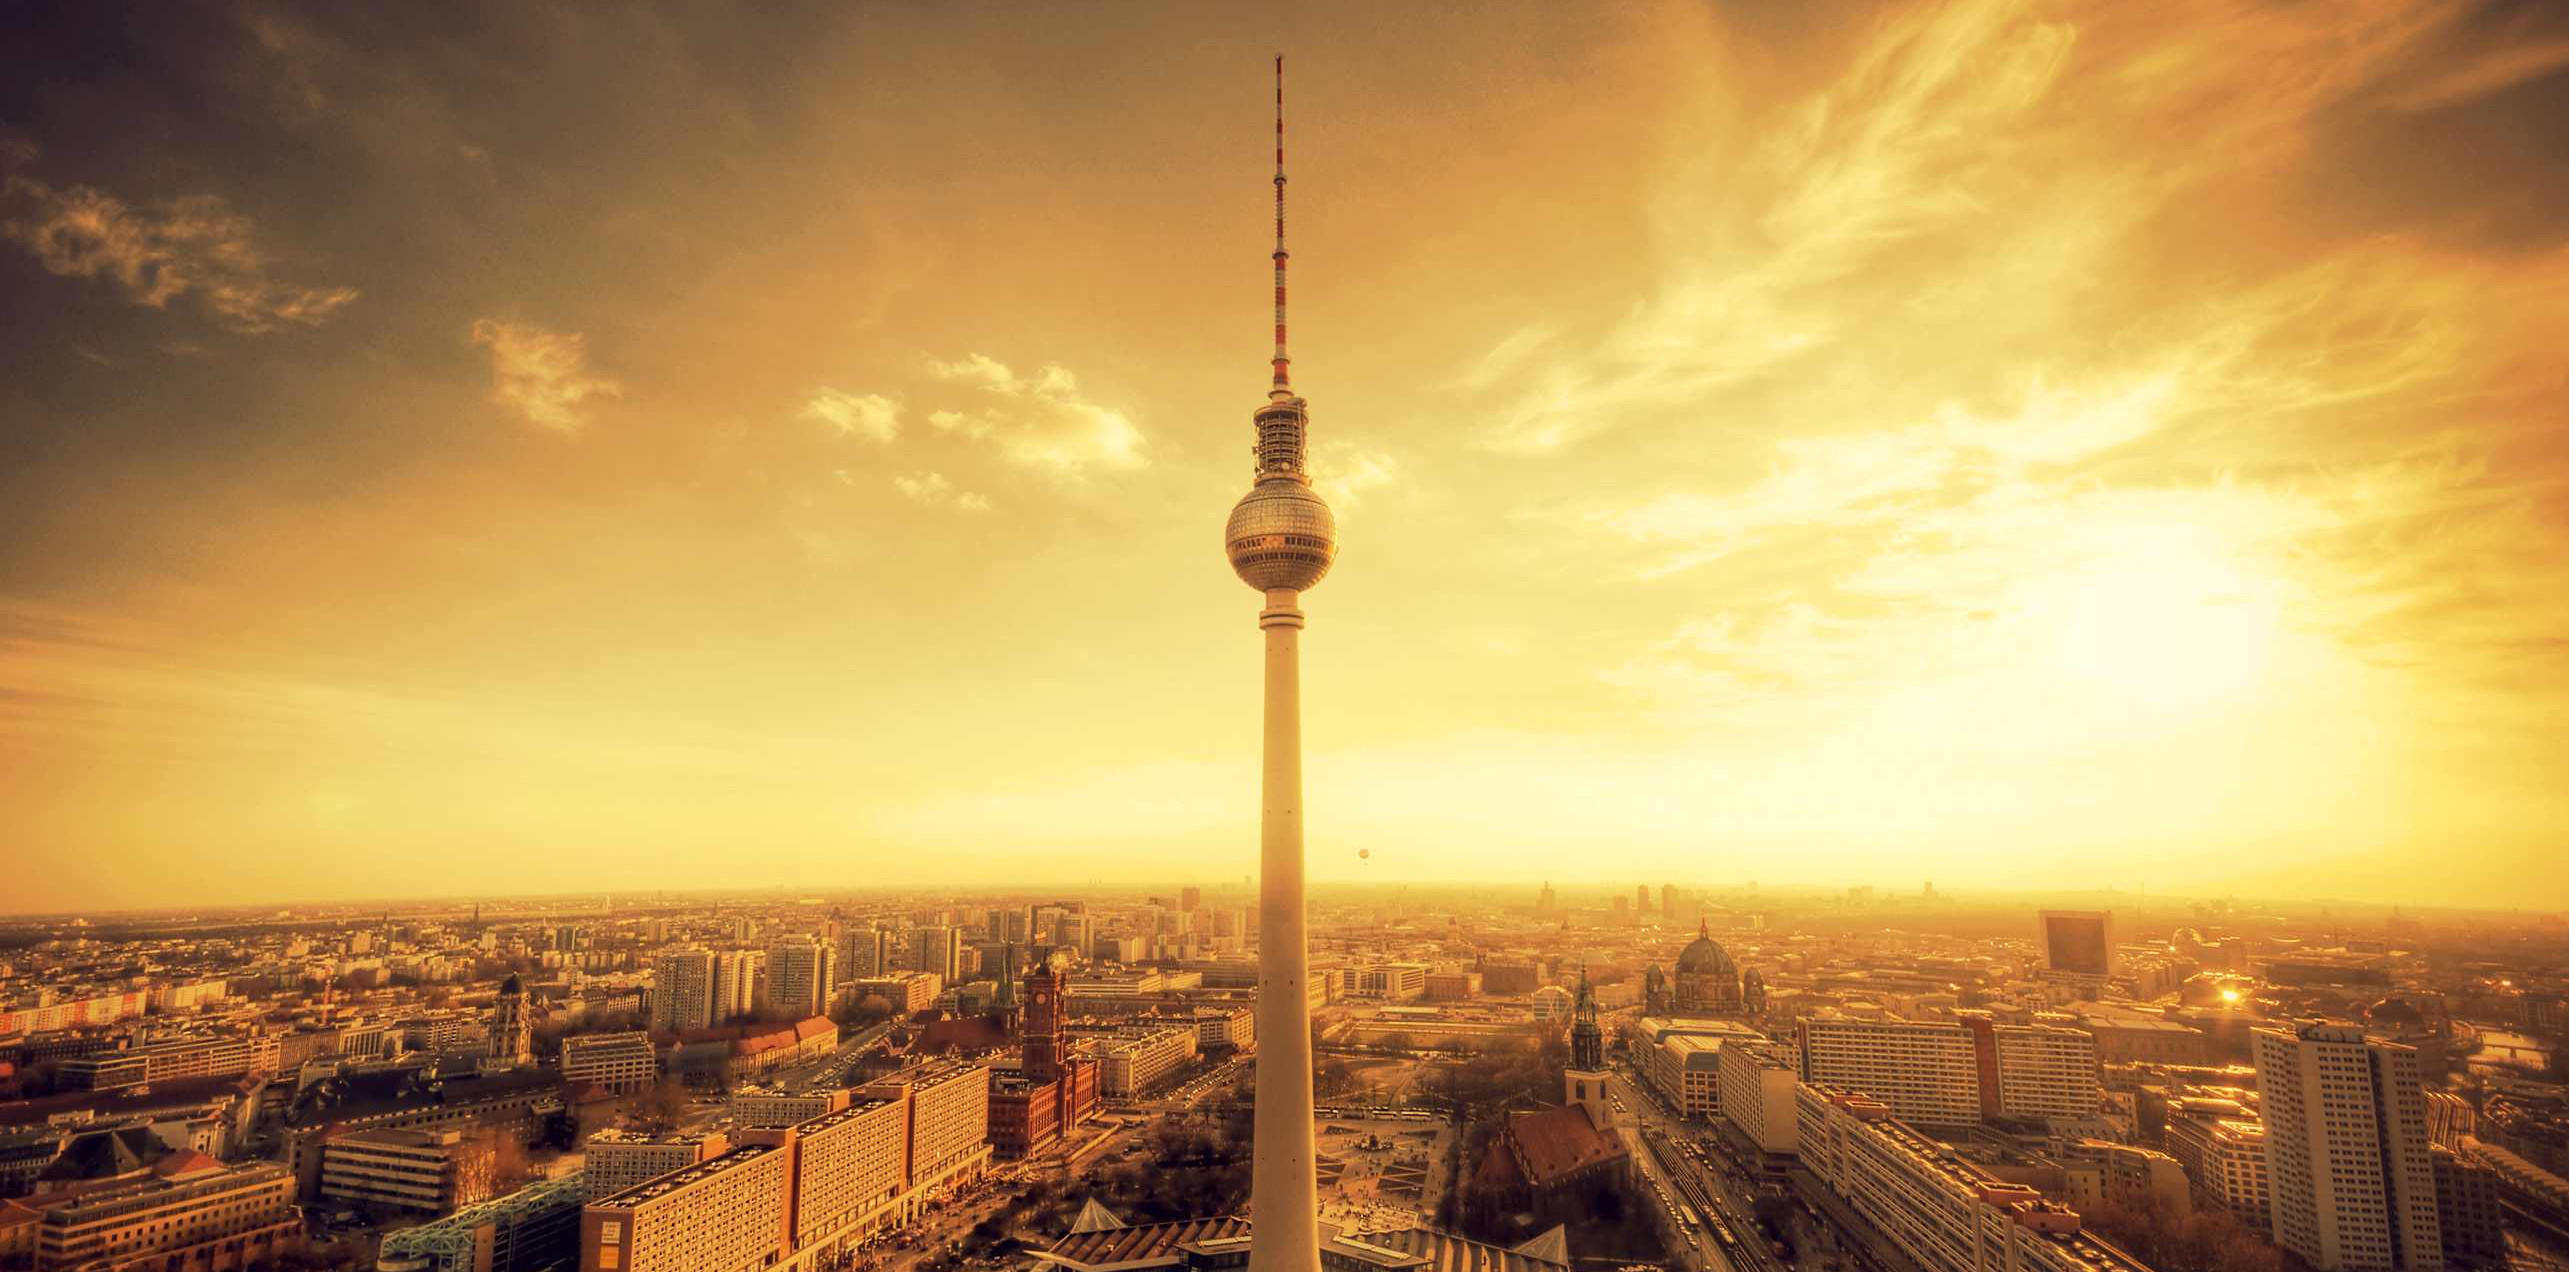
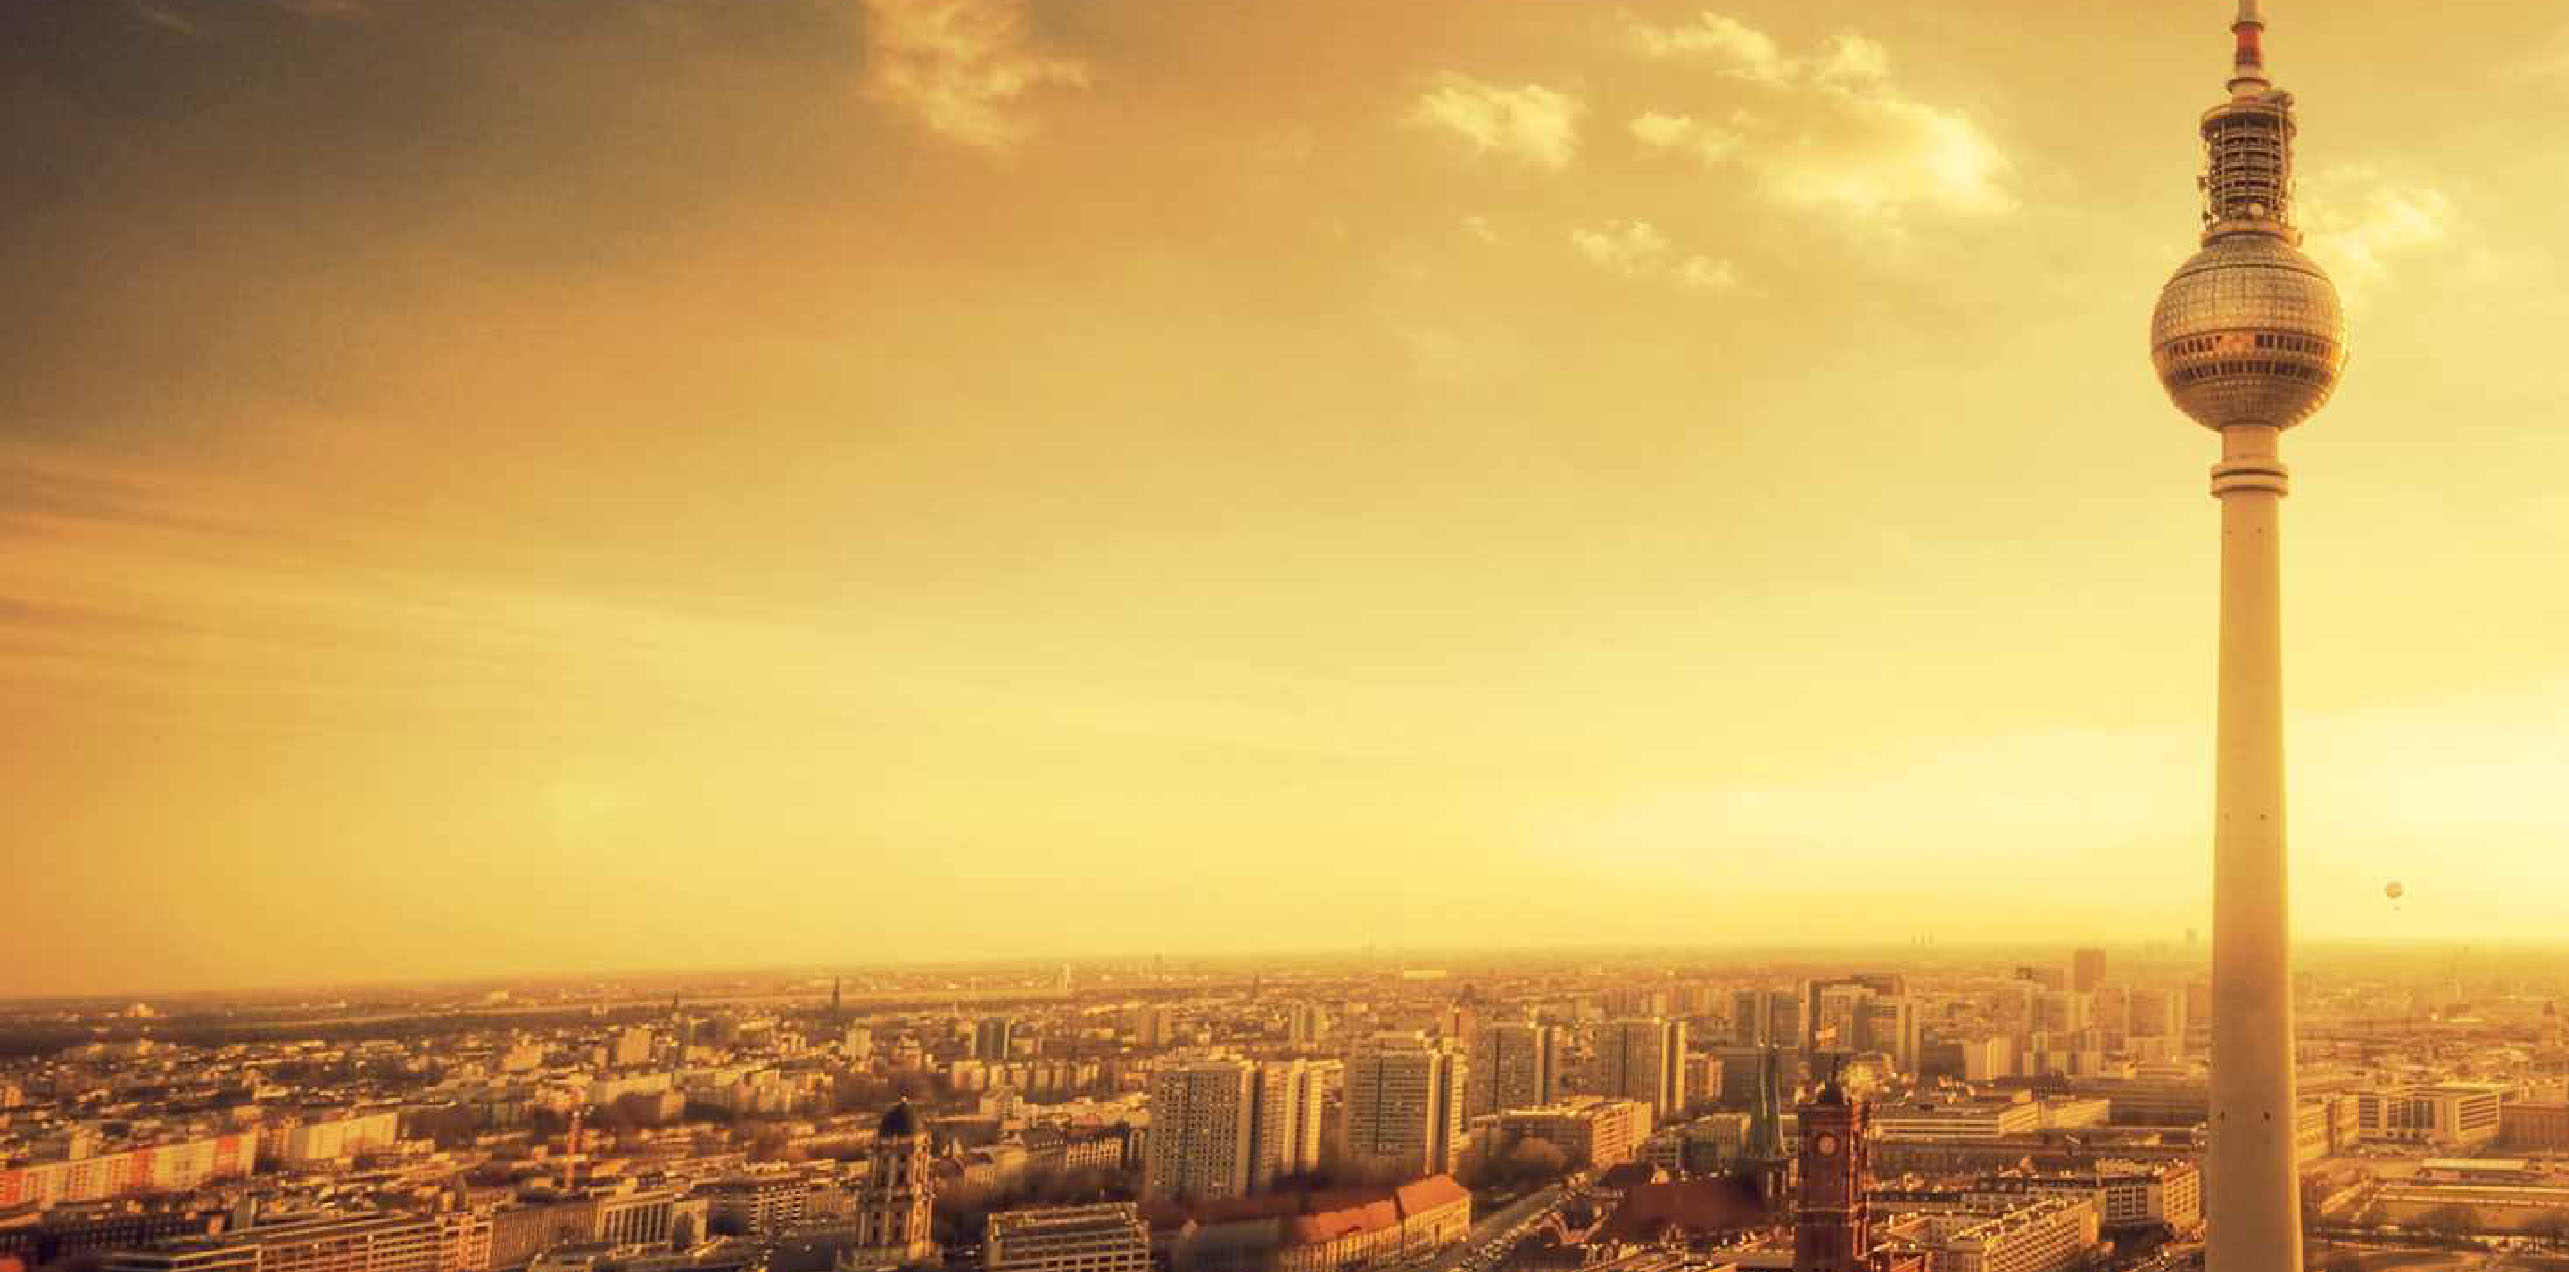
carousel and round corners

diff --git a/index.html b/index.html
@@ -8,31 +8,108 @@
 <link rel="shortcut icon" href="/static/img/favicon.ico">
 <!--<script src="/static/berlin2015/bower_components/modernizr/modernizr.js"></script>-->
 <script src="//ajax.googleapis.com/ajax/libs/jquery/1.10.2/jquery.min.js"></script>
-
+<script src="//code.jquery.com/jquery-latest.min.js"></script>
+<script src="//unslider.com/unslider.min.js"></script>
 <script>
 $(function() {
         $('a[href*=#]:not([href=#])').click(function() {
             if (location.pathname.replace(/^\//,'') == this.pathname.replace(/^\//,'') && location.hostname == this.hostname) {
-
-            var target = $(this.hash);
-            target = target.length ? target : $('[name=' + this.hash.slice(1) +']');
-            if (target.length) {
-            $('html,body').animate({
-scrollTop: target.offset().top
-}, 1000);
-            return false;
-            }
-            }
+				var target = $(this.hash);
+				target = target.length ? target : $('[name=' + this.hash.slice(1) +']');
+					if (target.length) {
+						scrollPosition = target.offset().top - $('.fixed').height();
+						$('html,body').animate({
+							scrollTop: scrollPosition
+						}, 1000);
+						return false;
+					}
+	            }
             });
         });
+
+$(document).ready(function(){
+    topResize();
+});	
+
+$(window).resize(function(){
+	topResize();
+	if(window.innerWidth < 1025){
+		$('.fixed').css('margin-left', 0);
+		$('.mainBanner').removeClass('fixed');
+		$('#banner').css('margin-top', 0);
+		$('#background').hide();
+		$('#banner').hide();
+	}else{
+		$('.mainBanner').addClass('fixed');
+		$('.fixed').css('margin-left', -$('.fixed').width()/2);
+		$('#banner').css('margin-top', $('.fixed').height());
+		$('#background').show();
+		$('#banner').show();
+	}
+});
+
+function topResize(){
+	$('.fixed').css('margin-left', -$('.fixed').width()/2);
+	$('#banner').css('margin-top', $('.fixed').height());
+	$('#background').css('height', $('.fixed').height());
+};
+
+$(function() {
+    $('.banner').unslider({
+	speed: 1000,               //  The speed to animate each slide (in milliseconds)
+	delay: 5000,              //  The delay between slide animations (in milliseconds)
+	complete: function() {},  //  A function that gets called after every slide animation
+	keys: true,               //  Enable keyboard (left, right) arrow shortcuts
+	dots: true,               //  Display dot navigation
+	fluid: true              //  Support responsive design. May break non-responsive designs
+});
+});
+
 </script>
+<style>
+.fixed{
+	position:fixed;
+	left:50%;
+	z-index:150;
+}#background{
+	position:fixed;
+	left:0;
+	width:100%;
+	background:url(/static/img/trDot.png) repeat;
+}.button-group li:first-of-type a{
+	border-bottom-left-radius:3px;
+}.button-group li:last-of-type a{
+	border-bottom-right-radius:3px;
+}#banner{
+	padding:1em 0 !important;
+}.banner{
+	position:relative; 
+	overflow:auto;
+	background:url(/static/img/berlin-bg_cut.jpg) center;
+	background-size:cover;
+	border-radius:3px;
+}.banner li{
+	list-style:none;
+	height:495px;
+	text-align:left;
+}.banner ul li{
+	float:left;
+	margin-top:120px;
+	font-size:60px;
+	color:#f9f9f9;
+	text-shadow:1px 1px 0px #000;
+}.banner a{
+    color:#f9f9f9;
+}
+</style>
 </head>
 <body>
 
-
-<div class="row">
+<a name="top"></a>
+<div class="row fixed mainBanner">
+<div id="background"></div>
     <div class="large-3 columns">
-        <a name="top"><h1><img src="/static/img/PyDataBerlin-2015.png"></h1></a>
+        <h1><img src="/static/img/PyDataBerlin-2015.png"></h1>
     </div>
 
     <div class="large-9 columns">
@@ -50,8 +127,12 @@ scrollTop: target.offset().top
 
 <div class="full-width" id="banner">
     <div class="row">
-        <div class="large-12 columns">
-            <img src="/static/img/berlin-bg_cut.jpg">
+        <div class="banner">
+            <ul>
+                <li>Learn about Python Tools and <br>Algorithms for Data Science</li>
+                <li><a href="https://www.eventbrite.com/e/pydata-berlin-2015-tickets-16284071095">Early Bird<br>Registration is Open</a></li>
+                <li><a href="#cfp">CFP: We Welcome<br>Your Contribution</a></li>
+            </ul>
         </div>
     </div>
 </div>
